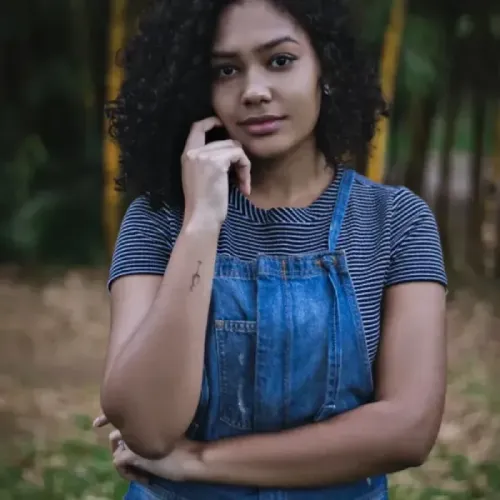
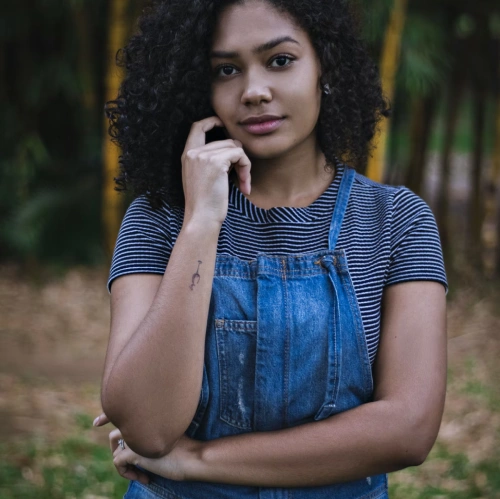
Dernier resize de nina !

Changed region(s): [[0.42, 0.3307, 0.9, 0.7214], [0.21, 0.3908, 0.36, 0.5711], [0.45, 0.6313, 0.51, 0.6613]]

diff --git a/index.html b/index.html
@@ -152,7 +152,7 @@
     <!-- Section About -->
     <section id="about">
       <div class="picture left">
-        <img width="920" height="920" srcset="
+        <img width="600" height="600" srcset="
         ./assets/images/home/desktop/nina.webp 1920w,
         ./assets/images/home/mobile/nina.webp 800w" src="./assets/images/home/desktop/nina.webp"
           alt="Photo de Nina Carducci" />

diff --git a/assets/style.css b/assets/style.css
@@ -83,6 +83,8 @@ body {
 	/* ajout */
 	height: 100%;
 	object-fit: contain;
+	max-width: 500px;
+	max-height: 500px;
   }
   #about-me {
 	flex: 2;
